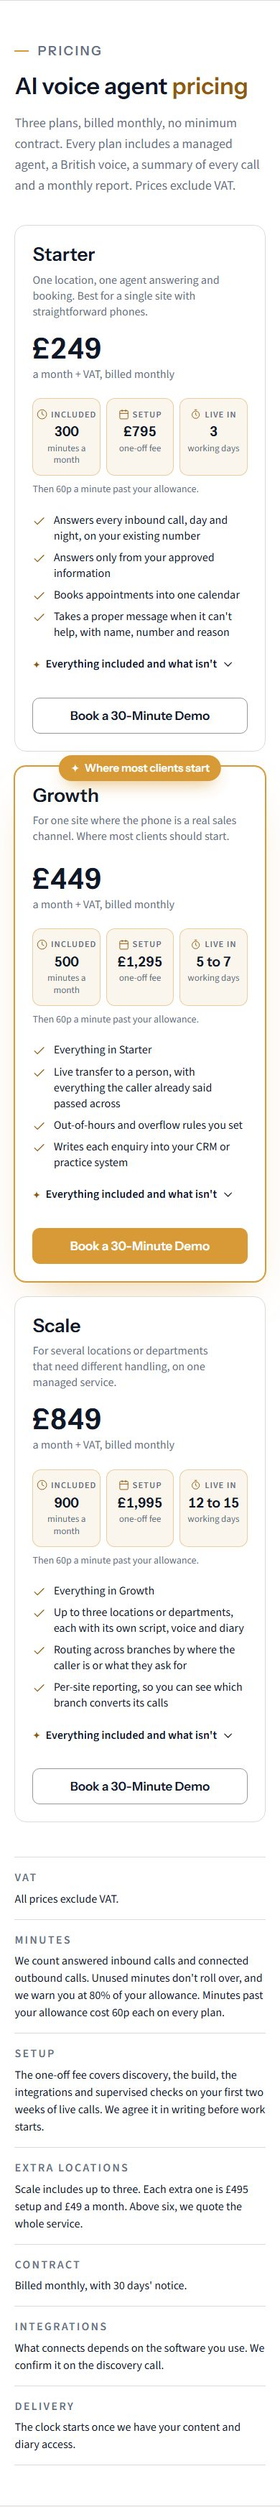
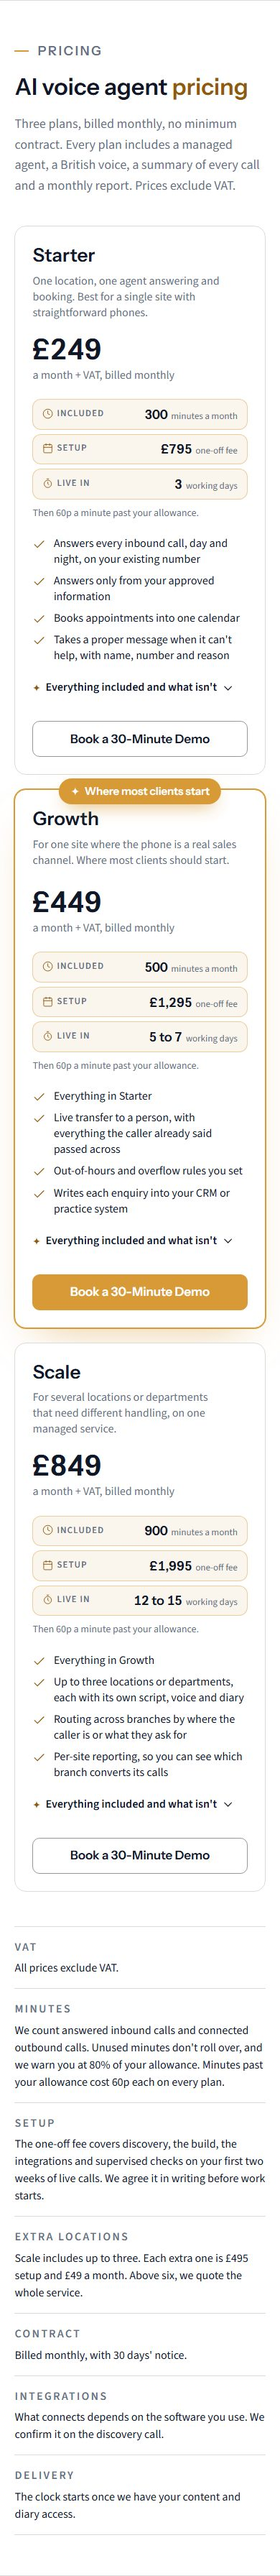
/ai-voice-agents: no hero flash, page-wide spotlight, guided fit check, varied entrances, responsive fixes
The hero is hidden from the first paint until the motion layer plays it in,
so a reload no longer shows it and then replays it. A cursor spotlight (soft
fill and lit edge) now runs on cards and panels across every section, pale
gold on dark bands. The fit check highlights the next question, fills a dot
per answer and keeps its 0 and 5 labels clear of the arc. Entrances vary by
group: word-by-word headings, drawn eyebrow dashes, blur-in intros, slides
from either side, scale-ups, popping timeline numbers and a drawn line.
Audited 320 to 1920px: fixed the "What is" column overflowing at 375 and
below, the sticky phone button at 320, cramped pricing facts in narrow cards
and a small tap target.

Changed region(s): [[0.0, 0.0312, 1.0, 1.0], [0.9231, 0.4999, 0.9538, 0.5311], [0.7385, 0.9372, 0.7692, 0.9685]]

diff --git a/lib/content/ai-voice-agents-legacy.ts b/lib/content/ai-voice-agents-legacy.ts
@@ -443,7 +443,7 @@ export const legacyMarkup = String.raw`
         <form class="hover-card mt-8 rounded-[18px] border border-line bg-paper p-5 sm:p-6" data-fit-form>
           <ol class="divide-y divide-line">
           <li>
-            <fieldset class="flex items-center justify-between gap-4 py-3">
+            <fieldset class="flex flex-col gap-2.5 py-3 sm:flex-row sm:items-center sm:justify-between sm:gap-4">
               <legend class="float-left pr-2 text-[16px] leading-snug"><span class="num mr-2 text-[14px]">01</span>Do you miss calls when your team is busy, on site or closed?</legend>
               <span class="flex shrink-0 gap-1.5">
                 <label class="relative"><input type="radio" name="fit-q0" value="yes" class="peer sr-only" data-fit-q="0" data-track="fit_check_answer" data-track-name="Q1 yes"><span class="flex min-h-[40px] min-w-[56px] items-center justify-center rounded-full border border-[var(--va-line-strong)] px-3 text-[15px] font-semibold peer-checked:border-ink peer-checked:bg-ink peer-checked:text-paper peer-focus-visible:outline-2 peer-focus-visible:outline-offset-2 peer-focus-visible:outline-[var(--va-hl)]">Yes</span></label>
@@ -452,7 +452,7 @@ export const legacyMarkup = String.raw`
             </fieldset>
           </li>
           <li>
-            <fieldset class="flex items-center justify-between gap-4 py-3">
+            <fieldset class="flex flex-col gap-2.5 py-3 sm:flex-row sm:items-center sm:justify-between sm:gap-4">
               <legend class="float-left pr-2 text-[16px] leading-snug"><span class="num mr-2 text-[14px]">02</span>Are most of your calls the same few requests?</legend>
               <span class="flex shrink-0 gap-1.5">
                 <label class="relative"><input type="radio" name="fit-q1" value="yes" class="peer sr-only" data-fit-q="1" data-track="fit_check_answer" data-track-name="Q2 yes"><span class="flex min-h-[40px] min-w-[56px] items-center justify-center rounded-full border border-[var(--va-line-strong)] px-3 text-[15px] font-semibold peer-checked:border-ink peer-checked:bg-ink peer-checked:text-paper peer-focus-visible:outline-2 peer-focus-visible:outline-offset-2 peer-focus-visible:outline-[var(--va-hl)]">Yes</span></label>
@@ -461,7 +461,7 @@ export const legacyMarkup = String.raw`
             </fieldset>
           </li>
           <li>
-            <fieldset class="flex items-center justify-between gap-4 py-3">
+            <fieldset class="flex flex-col gap-2.5 py-3 sm:flex-row sm:items-center sm:justify-between sm:gap-4">
               <legend class="float-left pr-2 text-[16px] leading-snug"><span class="num mr-2 text-[14px]">03</span>Could one missed call cost you a customer worth real money?</legend>
               <span class="flex shrink-0 gap-1.5">
                 <label class="relative"><input type="radio" name="fit-q2" value="yes" class="peer sr-only" data-fit-q="2" data-track="fit_check_answer" data-track-name="Q3 yes"><span class="flex min-h-[40px] min-w-[56px] items-center justify-center rounded-full border border-[var(--va-line-strong)] px-3 text-[15px] font-semibold peer-checked:border-ink peer-checked:bg-ink peer-checked:text-paper peer-focus-visible:outline-2 peer-focus-visible:outline-offset-2 peer-focus-visible:outline-[var(--va-hl)]">Yes</span></label>
@@ -470,7 +470,7 @@ export const legacyMarkup = String.raw`
             </fieldset>
           </li>
           <li>
-            <fieldset class="flex items-center justify-between gap-4 py-3">
+            <fieldset class="flex flex-col gap-2.5 py-3 sm:flex-row sm:items-center sm:justify-between sm:gap-4">
               <legend class="float-left pr-2 text-[16px] leading-snug"><span class="num mr-2 text-[14px]">04</span>Do you have a diary or system bookings can go into?</legend>
               <span class="flex shrink-0 gap-1.5">
                 <label class="relative"><input type="radio" name="fit-q3" value="yes" class="peer sr-only" data-fit-q="3" data-track="fit_check_answer" data-track-name="Q4 yes"><span class="flex min-h-[40px] min-w-[56px] items-center justify-center rounded-full border border-[var(--va-line-strong)] px-3 text-[15px] font-semibold peer-checked:border-ink peer-checked:bg-ink peer-checked:text-paper peer-focus-visible:outline-2 peer-focus-visible:outline-offset-2 peer-focus-visible:outline-[var(--va-hl)]">Yes</span></label>
@@ -479,7 +479,7 @@ export const legacyMarkup = String.raw`
             </fieldset>
           </li>
           <li>
-            <fieldset class="flex items-center justify-between gap-4 py-3">
+            <fieldset class="flex flex-col gap-2.5 py-3 sm:flex-row sm:items-center sm:justify-between sm:gap-4">
               <legend class="float-left pr-2 text-[16px] leading-snug"><span class="num mr-2 text-[14px]">05</span>Are you happy for callers to be told they are speaking to an AI?</legend>
               <span class="flex shrink-0 gap-1.5">
                 <label class="relative"><input type="radio" name="fit-q4" value="yes" class="peer sr-only" data-fit-q="4" data-track="fit_check_answer" data-track-name="Q5 yes"><span class="flex min-h-[40px] min-w-[56px] items-center justify-center rounded-full border border-[var(--va-line-strong)] px-3 text-[15px] font-semibold peer-checked:border-ink peer-checked:bg-ink peer-checked:text-paper peer-focus-visible:outline-2 peer-focus-visible:outline-offset-2 peer-focus-visible:outline-[var(--va-hl)]">Yes</span></label>
@@ -488,17 +488,18 @@ export const legacyMarkup = String.raw`
             </fieldset>
           </li>
           </ol>
-          <div class="mt-5 flex flex-wrap items-center gap-5 rounded-[14px] bg-sand p-5" aria-live="polite" data-fit-result data-state="empty">
-            <svg viewBox="0 0 200 122" class="shrink-0" role="img" aria-label="Fit gauge" data-fit-gauge>
+          <div class="mt-5 flex flex-col items-start gap-4 rounded-[14px] bg-sand p-5 sm:flex-row sm:items-center sm:gap-5" aria-live="polite" data-fit-result data-state="empty">
+            <svg viewBox="-6 0 212 136" class="shrink-0" role="img" aria-label="Fit gauge" data-fit-gauge>
               <path d="M20 100 A80 80 0 0 1 180 100" class="fit-track"/>
               <path d="M20 100 A80 80 0 0 1 180 100" class="fit-fill" style="stroke-dasharray:251.3;stroke-dashoffset:251.3" data-fit-arc data-arc="251.3"/>
               <g class="fit-needle" style="transform:rotate(-90deg)" data-fit-needle><line x1="100" y1="100" x2="100" y2="34"/><circle cx="100" cy="100" r="7"/></g>
-              <text x="20" y="116" class="fit-tick" text-anchor="middle">0</text>
-              <text x="180" y="116" class="fit-tick" text-anchor="middle">5</text>
+              <text x="20" y="132" class="fit-tick" text-anchor="middle">0</text>
+              <text x="180" y="132" class="fit-tick" text-anchor="middle">5</text>
             </svg>
             <div class="min-w-0 flex-1">
-              <p class="font-display text-[24px] font-semibold leading-tight" data-fit-title>Answer to see your fit</p>
-              <p class="mt-1.5 text-[16px] leading-snug text-muted" data-fit-text>Your result appears here as you go. Nothing is sent anywhere.</p>
+              <p class="font-display text-[24px] font-semibold leading-tight" data-fit-title>Start with question 1</p>
+              <p class="mt-1.5 text-[16px] leading-snug text-muted" data-fit-text>Tap Yes or No on each question. Your fit builds here as you answer.</p>
+              <div class="fit-dots mt-3" aria-hidden="true" data-fit-dots><i></i><i></i><i></i><i></i><i></i></div>
               <p class="mt-1.5 text-[15px] font-semibold text-muted tnum" data-fit-count>0 of 5 answered</p>
               <a href="#book-demo-form" class="btn btn-primary mt-3" data-fit-cta data-track="fit_check_book_demo" hidden>Book a 30-Minute Demo</a>
             </div>
@@ -570,8 +571,8 @@ ${cmpCols.slice(1).map((c, i) => `        <button type="button" role="radio" ari
 ${cmpRows.map(([k, omh, ...v]) => `        <div class="rounded-[14px] border border-line bg-surface p-4">
           <dt class="text-[16px] font-semibold">${k}</dt>
           <dd class="mt-3 grid grid-cols-2 gap-2 text-[15px] leading-snug">
-            <span class="cmp-omh rounded-[10px] p-3"><span class="block text-[12.5px] font-semibold uppercase tracking-[0.1em] text-hl">OMH</span><span class="mt-1 block font-semibold">${omh}</span></span>
-            ${v.map((t, i) => `<span class="rounded-[10px] bg-paper p-3" data-cmp-cell="${i + 1}"${i ? " hidden" : ""}><span class="block text-[12.5px] font-semibold uppercase tracking-[0.1em] text-muted">${cmpCols[i + 1]}</span><span class="mt-1 block text-muted">${t}</span></span>`).join("\n")}
+            <span class="cmp-omh rounded-[10px] p-3"><span class="block text-[13px] font-semibold uppercase tracking-[0.1em] text-hl">OMH</span><span class="mt-1 block font-semibold">${omh}</span></span>
+            ${v.map((t, i) => `<span class="rounded-[10px] bg-paper p-3" data-cmp-cell="${i + 1}"${i ? " hidden" : ""}><span class="block text-[13px] font-semibold uppercase tracking-[0.1em] text-muted">${cmpCols[i + 1]}</span><span class="mt-1 block text-muted">${t}</span></span>`).join("\n")}
           </dd>
         </div>`).join("\n")}
       </dl>
@@ -633,7 +634,7 @@ ${voiceFaqs.map(faqItem).join("\n")}
 <div data-component="MobileStickyBar" data-sticky-bar class="fixed inset-x-0 bottom-0 z-40 border-t border-line bg-paper px-4 pb-[max(.75rem,env(safe-area-inset-bottom))] pt-3 shadow-[0_-12px_30px_-18px_rgb(16_24_40/0.35)] md:hidden" inert>
   <div class="flex items-center gap-3">
     <a href="#book-demo-form" class="btn btn-primary flex-1 whitespace-nowrap !px-3" data-track="sticky_book_demo">Book a Demo</a>
-    <a href="tel:+442034893934" class="btn btn-secondary shrink-0 whitespace-nowrap !px-3 tnum" data-track="sticky_phone_click">Call 020 3489 3934</a>
+    <a href="tel:+442034893934" class="btn btn-secondary shrink-0 whitespace-nowrap !px-3 tnum" data-track="sticky_phone_click" aria-label="Call 020 3489 3934"><span class="max-[374px]:hidden">Call&nbsp;</span>020 3489 3934</a>
   </div>
 </div>
 `;

diff --git a/app/ai-voice-agents/voice-agents.css b/app/ai-voice-agents/voice-agents.css
@@ -475,7 +475,7 @@ html:has(.va-page dialog[open]) {
   .day-miss { display: inline-flex; align-items: center; gap: .4rem; padding: .35rem .7rem; border-radius: 8px; background: color-mix(in srgb, var(--va-miss) 12%, var(--va-surface)); color: var(--va-miss); font-size: 14px; font-weight: 600; }
   .day-ok { display: inline-flex; align-items: center; gap: .4rem; padding: .35rem .7rem; border-radius: 8px; background: color-mix(in srgb, var(--va-ok) 12%, var(--va-surface)); color: var(--va-ok); font-size: 14px; font-weight: 600; }
   @media (prefers-reduced-motion: reduce) {
-    [data-brand] :is([data-brand-line], [data-brand-outcome]) { display: block !important; animation: none; }
+    [data-brand] :is([data-brand-line], [data-brand-outcome]) { animation: none; }
   }
 }
 
@@ -573,9 +573,6 @@ html:has(.va-page dialog[open]) {
 #va-page .m-instant, #va-page .m-instant .mw > span { transition: none !important; }
 .m-progress { position: fixed; inset: 0 0 auto; z-index: 60; height: 3px; background: linear-gradient(90deg, #d79a37, #f2c675); transform-origin: 0 50%; transform: scaleX(0); pointer-events: none; }
 #va-page .hero-video .video-frame { transform-origin: 50% 0; will-change: transform; transition: border-radius .2s ease; }
-#va-page :is(.hover-card, [data-industry], #pricing article, .city, #feedback figure, .tl-card, #features ol > li, [data-tab-panel]):hover {
-  background-image: radial-gradient(420px circle at var(--mx, 50%) var(--my, 50%), rgb(215 154 55 / .12), transparent 45%);
-}
 @media (prefers-reduced-motion: reduce) { .m-progress { display: none; } }
 
 /* Fit gauge and result, larger (20 Oct 2026). */
@@ -689,3 +686,77 @@ html:has(.va-page dialog[open]) {
   .v4l .lf .lf-txt b { font-size: 15.5px; }
   .v4l .lf .lf-txt small { font-size: 13px; }
 }
+
+/* ================= Round six (20 Oct 2026) ================= */
+
+/* 1. Hero: hidden from the first paint while the script is on its way, so a reload no longer shows it and then
+   replays it. Lets go when the motion layer starts (motion-ready), when it decides not to run (motion-skip),
+   and after 2.5s regardless. */
+@media (prefers-reduced-motion: no-preference) {
+  html[data-js]:not(.motion-ready):not(.motion-skip) #va-page #top :is(.badge, h1, .lead, #hero-form, #hero-form + p, #industries-strip, .hero-video) {
+    opacity: 0; animation: va-failsafe 0s linear 2.5s forwards;
+  }
+}
+@keyframes va-failsafe { to { opacity: 1; } }
+
+/* 2. Cursor spotlight: a soft fill and a lit edge that follow the pointer, gold on light cards, pale gold on dark. */
+#va-page .m-glow, #book-demo-form .m-glow { position: relative; isolation: isolate; --glow-fill: rgb(215 154 55 / .13); --glow-edge: rgb(215 154 55 / .9); }
+#va-page .m-glow-dark, #book-demo-form .m-glow-dark { --glow-fill: rgb(242 198 117 / .11); --glow-edge: rgb(242 198 117 / .75); }
+:is(#va-page, #book-demo-form) .m-glow::before, :is(#va-page, #book-demo-form) .m-glow::after {
+  content: ""; position: absolute; inset: 0; z-index: -1; border-radius: inherit; pointer-events: none; opacity: 0; transition: opacity .4s ease;
+}
+:is(#va-page, #book-demo-form) .m-glow::after { background: radial-gradient(480px circle at var(--mx, 50%) var(--my, 50%), var(--glow-fill), transparent 45%); }
+:is(#va-page, #book-demo-form) .m-glow::before {
+  z-index: 1; padding: 1px;
+  background: radial-gradient(260px circle at var(--mx, 50%) var(--my, 50%), var(--glow-edge), transparent 60%);
+  -webkit-mask: linear-gradient(#000 0 0) content-box, linear-gradient(#000 0 0); -webkit-mask-composite: xor;
+  mask: linear-gradient(#000 0 0) content-box, linear-gradient(#000 0 0); mask-composite: exclude;
+}
+:is(#va-page, #book-demo-form) .m-glow:hover::before, :is(#va-page, #book-demo-form) .m-glow:hover::after { opacity: 1; }
+
+/* 4. Entrance variants. Hidden states apply only under html.motion-ready; .m-done drops the entrance timing. */
+.motion-ready #va-page :is(.m-up, .m-left, .m-right, .m-slide, .m-scale, .m-blur, .m-pop, .m-eyebrow) {
+  transition: opacity .8s cubic-bezier(.16, 1, .3, 1) var(--d, 0ms), transform 1s cubic-bezier(.16, 1, .3, 1) var(--d, 0ms), filter .9s cubic-bezier(.16, 1, .3, 1) var(--d, 0ms);
+}
+.motion-ready #va-page .m-left:not(.is-in) { opacity: 0; transform: translateX(-44px); }
+.motion-ready #va-page .m-right:not(.is-in) { opacity: 0; transform: translateX(44px); }
+.motion-ready #va-page .m-slide:not(.is-in) { opacity: 0; transform: translateX(90px); }
+.motion-ready #va-page .m-scale:not(.is-in) { opacity: 0; transform: translateY(34px) scale(.94); }
+.motion-ready #va-page #plan-growth.m-scale:not(.is-in) { transform: translateY(70px) scale(.92); }
+.motion-ready #va-page .m-blur:not(.is-in) { opacity: 0; filter: blur(10px); transform: translateY(10px); }
+.motion-ready #va-page .m-pop:not(.is-in) { opacity: 0; transform: scale(.4); }
+.motion-ready #va-page .m-pop { transition-timing-function: cubic-bezier(.34, 1.56, .64, 1); }
+.motion-ready #va-page .m-eyebrow:not(.is-in) { opacity: 0; transform: translateX(-16px); }
+.motion-ready #va-page .m-eyebrow :is(.eyebrow-mark, .voice-mark) { transform-origin: 0 50%; transition: transform .8s cubic-bezier(.16, 1, .3, 1) calc(var(--d, 0ms) + 150ms); }
+.motion-ready #va-page .m-eyebrow:not(.is-in) :is(.eyebrow-mark, .voice-mark) { transform: scaleX(0); }
+.motion-ready #va-page .tl::before { transform-origin: 0 50%; transition: transform 1.4s cubic-bezier(.16, 1, .3, 1) .2s; }
+.motion-ready #va-page .tl:not(.is-in)::before { transform: scaleX(0); }
+.motion-ready #va-page .m-done { transition: transform .3s ease, box-shadow .3s ease, border-color .3s ease, background-color .3s ease, opacity .3s ease, filter .3s ease !important; }
+
+/* 3. Fit check, guided: the next question lights up and its buttons breathe; a dot fills per answer. */
+#va-page [data-fit-form] ol > li { margin-inline: -.75rem; padding-inline: .75rem; border-radius: 12px; transition: background-color .3s ease, box-shadow .3s ease; }
+#va-page [data-fit-form] ol > li.is-next { background: color-mix(in srgb, #d79a37 10%, transparent); box-shadow: inset 3px 0 0 #d79a37; }
+#va-page [data-fit-form] li.is-next label > span { border-color: #d79a37; }
+@media (prefers-reduced-motion: no-preference) {
+  #va-page [data-fit-form] li.is-next label > span { animation: va-fit-breathe 2s ease-in-out infinite; }
+  #va-page [data-fit-form] li.is-next label + label > span { animation-delay: .25s; }
+}
+@keyframes va-fit-breathe { 0%, 100% { box-shadow: 0 0 0 0 rgb(215 154 55 / .45); } 50% { box-shadow: 0 0 0 6px rgb(215 154 55 / 0); } }
+#va-page .fit-dots { display: flex; gap: 6px; }
+#va-page .fit-dots i { display: block; width: 26px; height: 6px; border-radius: 999px; background: var(--va-line-strong); opacity: .35; transition: background-color .3s ease, opacity .3s ease, transform .3s ease; }
+#va-page .fit-dots i.is-yes { background: #d79a37; opacity: 1; transform: scaleY(1.3); }
+#va-page .fit-dots i.is-no { background: var(--va-ink); opacity: .55; }
+#va-page .fit-tick { font-size: 19px; font-weight: 600; fill: var(--va-muted); }
+#va-page [data-fit-gauge] { width: 176px; }
+
+/* 5. Responsive. */
+#va-page #pricing article { container-type: inline-size; }
+@container (max-width: 380px) {
+  #va-page .plan-facts { grid-template-columns: 1fr; gap: 6px; }
+  #va-page .plan-facts > div { display: flex; align-items: baseline; justify-content: space-between; gap: .75rem; padding: .55rem .8rem; text-align: left; }
+  #va-page .plan-facts dt { justify-content: flex-start; }
+  #va-page .plan-facts dd { margin-top: 0; font-size: 18px; text-align: right; white-space: nowrap; }
+  #va-page .plan-facts dd span { display: inline; margin: 0 0 0 .3rem; }
+}
+#va-page .plan-facts dt { font-size: 13px; }
+#va-page #cities .link-tap { display: inline-flex; min-height: 44px; align-items: center; }

diff --git a/components/voice-agents/VoiceMotion.tsx b/components/voice-agents/VoiceMotion.tsx
@@ -13,21 +13,27 @@ import { useEffect } from "react";
   stalled observer can never leave a section blank. Reduced motion turns all of it off.
 */
 
+// Each kind has its own entrance (voice-agents.css): rise, slide in from either side, scale up, sharpen from a
+// blur, pop, or unclip. Kept to one kind per group so a section reads as one gesture, not a medley.
 const REVEAL = [
-  // [selector, kind]
-  ["section .eyebrow", "up"],
-  ["section > .container-omh > p.text-muted, section > .container-omh > p.text-band-muted, section .head-c > p, #what-is p.text-band-muted, #right-fit p.text-muted", "up"],
-  ["[data-industry], #feedback figure, #pricing article, .tl-step, .cap-tab, [data-faq-item], [data-brand-step], #right-fit .hover-card, #features ol > li, .city, #compare .cmp-table, #compare [data-cmp] dl > div, #faq .rounded-\\[16px\\]", "up"],
-  [".brand-phone, #use-cases [data-tab-panel]:not([hidden]), [data-fit-form]", "clip"],
-  ["#feedback dl, .ucard-vis", "up"],
+  ["section .eyebrow", "eyebrow"],
+  ["section > .container-omh > p.text-muted, section > .container-omh > p.text-band-muted, section .head-c > p, #what-is p.text-band-muted, #right-fit p.text-muted, #features > .container-omh > p", "blur"],
+  ["[data-industry], #features ol > li, .tl-card", "up"],
+  [".cap-tab, [data-brand-step], [data-fit-form]", "left"],
+  ["#right-fit .hover-card, [data-faq-item], #faq .rounded-\\[16px\\]", "right"],
+  ["#feedback figure, .city", "slide"],
+  ["#pricing article, #compare .cmp-table, #compare [data-cmp] dl > div, #feedback dl, .kstats > div", "scale"],
+  [".tl-num", "pop"],
+  [".brand-phone, #use-cases [data-tab-panel]:not([hidden]), .flow-panel, #industries aside", "clip"],
 ] as const;
 
 export function VoiceMotion() {
   useEffect(() => {
     const root = document.getElementById("va-page");
     if (!root) return;
-    if (window.matchMedia("(prefers-reduced-motion: reduce)").matches) return;
-    if (document.visibilityState !== "visible" || !("IntersectionObserver" in window)) return;
+    const skip = () => document.documentElement.classList.add("motion-skip");
+    if (window.matchMedia("(prefers-reduced-motion: reduce)").matches) return skip();
+    if (document.visibilityState !== "visible" || !("IntersectionObserver" in window)) return skip();
 
     const undo: (() => void)[] = [];
     const on = (t: EventTarget, type: string, fn: EventListener, opts?: AddEventListenerOptions) => {
@@ -78,7 +84,7 @@ export function VoiceMotion() {
       root.querySelectorAll<HTMLElement>(sel).forEach((el) => {
         if (tagged.has(el)) return;
         tagged.add(el);
-        el.classList.add(kind === "clip" ? "m-clip" : "m-up");
+        el.classList.add("m-" + kind);
       }),
     );
     // Siblings that enter together get a small delay each, so a row of cards ripples in.
@@ -88,7 +94,14 @@ export function VoiceMotion() {
       el.style.setProperty("--d", `${Math.min(sibs.indexOf(el), 5) * 90}ms`);
     });
 
-    const show = (el: Element) => el.classList.add("is-in");
+    // Once an element has arrived, drop the entrance timing so hover effects respond at their own speed.
+    const show = (el: Element) => {
+      el.classList.add("is-in");
+      const d = parseFloat((el as HTMLElement).style.getPropertyValue("--d")) || 0;
+      window.setTimeout(() => el.classList.add("m-done"), d + 1300);
+      const tl = el.closest(".tl");
+      if (tl) tl.classList.add("is-in");
+    };
     const io = new IntersectionObserver(
       (entries) =>
         entries.forEach((e) => {
@@ -139,7 +152,7 @@ export function VoiceMotion() {
       clearTimeout(failsafe);
       document.documentElement.classList.remove("motion-ready");
       tagged.forEach((el) => {
-        el.classList.remove("m-up", "m-clip", "is-in", "m-instant");
+        el.classList.remove(...REVEAL.map(([, k]) => "m-" + k), "is-in", "m-instant", "m-done");
         el.style.removeProperty("--d");
       });
     });
@@ -238,9 +251,19 @@ export function VoiceMotion() {
         on(b, "pointerleave", leave);
         undo.push(leave);
       });
-      const glowSel = ".hover-card, [data-industry], #pricing article, .city, #feedback figure, .tl-card, #features ol > li, [data-tab-panel]";
-      on(root, "pointermove", (e) => {
-        const card = (e.target as Element).closest<HTMLElement>(glowSel);
+      const glowSel = [
+        ".hover-card", "[data-industry]", "#industries aside", "#pricing article", ".city", "#feedback figure", ".tl-card", ".lf-node",
+        "#features ol > li", "[data-tab-panel]", ".cap-tab", "[data-brand-step]", "#use-cases .bg-sand", "[data-faq-item]",
+        "#faq .rounded-\\[16px\\]", "#compare [data-cmp] dl > div", "#compare .lg\\:block", "#what-is .bg-band-surface",
+      ].map((s) => "#va-page " + s).concat("#book-demo-form [role=tab]").join(", ");
+      const glowing = Array.from(document.querySelectorAll<HTMLElement>(glowSel));
+      glowing.forEach((el) => {
+        el.classList.add("m-glow");
+        if (el.closest(".on-band, #book-demo-form, .flow-panel")) el.classList.add("m-glow-dark");
+      });
+      undo.push(() => glowing.forEach((el) => el.classList.remove("m-glow", "m-glow-dark")));
+      on(document, "pointermove", (e) => {
+        const card = (e.target as Element).closest<HTMLElement>(".m-glow");
         if (!card) return;
         const r = card.getBoundingClientRect();
         card.style.setProperty("--mx", `${(e as PointerEvent).clientX - r.left}px`);

diff --git a/lib/content/ai-voice-agents-markup.ts b/lib/content/ai-voice-agents-markup.ts
@@ -249,7 +249,7 @@ export const voiceAgentsMarkup = String.raw`
 
 <section id="what-is" data-component="WhatIs" class="on-band relative overflow-hidden bg-band text-band-ink">
   <div class="pointer-events-none absolute right-[-10%] top-1/2 h-[620px] w-[620px] -translate-y-1/2 rounded-full bg-gold/15 blur-3xl" aria-hidden="true"></div>
-  <div class="container-omh relative grid items-start gap-10 py-16 lg:grid-cols-[minmax(0,1.05fr)_minmax(0,.95fr)] lg:grid-rows-[auto_1fr] lg:gap-x-16 lg:gap-y-10 lg:py-24" data-brand
+  <div class="container-omh relative grid grid-cols-[minmax(0,1fr)] items-start gap-10 py-16 lg:grid-cols-[minmax(0,1.05fr)_minmax(0,.95fr)] lg:grid-rows-[auto_1fr] lg:gap-x-16 lg:gap-y-10 lg:py-24" data-brand
     data-brand-biz='[{"id":"law","label":"Law firm","name":"Hartwell Reeve Solicitors","city":"Birmingham","num":"0121 496 0147","agent":"Grace","kind":"firm&#39;s","initials":"HR","voice":"British English, calm and measured","never":"Gives legal advice","transfer":"Existing clients go to their named solicitor","caller":"I need advice about a tenancy dispute.","reply":"I can book you a consultation with our property team on Monday at 11.","booked":"Consultation booked: Mon 11:00","summary":"Summary sent to the property team: new enquiry, tenancy dispute"},{"id":"dental","label":"Dental clinic","name":"Albion Square Dental","city":"Manchester","num":"0161 496 0123","agent":"Amy","kind":"practice&#39;s","initials":"AS","voice":"British English, warm and friendly","never":"Gives clinical advice","transfer":"Dental emergencies go to the on-call line","caller":"I&#39;ve cracked a tooth. Can I be seen today?","reply":"Sorry to hear that. I have an emergency slot at 9:15 this morning.","booked":"Emergency slot booked: 09:15","summary":"Summary emailed to reception: emergency appointment, 9:15"},{"id":"plumber","label":"Plumber","name":"Severn Plumbing","city":"Bristol","num":"0117 496 0135","agent":"Sam","kind":"team&#39;s","initials":"SP","voice":"British English, relaxed","never":"Quotes a price it has not been given","transfer":"Burst pipes go straight to the plumber on call","caller":"There&#39;s water coming through my kitchen ceiling.","reply":"Turn off the stopcock under the sink. Sam can be with you in 40 minutes.","booked":"Engineer dispatched: ETA 40 min","summary":"Summary texted to Sam: address, fault and access details"}]'>
     <div class="lg:col-start-1 lg:row-start-1">
       <h2>What is an <span class="hl">AI voice agent?</span></h2>

diff --git a/components/voice-agents/VoiceAgentsScript.tsx b/components/voice-agents/VoiceAgentsScript.tsx
@@ -872,7 +872,7 @@ function init(page: HTMLElement, navigate: (href: string) => void) {
     const total = 5,
       len = Number(arc.dataset.arc);
     const copy: Record<string, [string, string]> = {
-      empty: ["Answer to see your fit", "Your result appears here as you go. Nothing is sent anywhere."],
+      empty: ["Start with question 1", "Tap Yes or No on each question. Your fit builds here as you answer."],
       strong: ["Strong fit", "A voice agent is likely to earn its keep. Book a demo and hear one set up for your calls."],
       maybe: ["Worth a chat", "Some of your calls could suit an agent. A 30-minute call will tell us which ones."],
       low: ["Probably not yet", "On these answers an agent may not pay for itself. We would rather tell you that now."],
@@ -901,6 +901,17 @@ function init(page: HTMLElement, navigate: (href: string) => void) {
       $("[data-fit-text]", result).textContent = copy[state][1];
       $("[data-fit-count]", result).textContent = answered + " of " + total + " answered";
       $("[data-fit-cta]", result).hidden = !(state === "strong" || state === "maybe") || answered < total;
+      // Guide the visitor: light up the next unanswered question and fill a dot per answer.
+      const rows = Array.from(form.querySelectorAll<HTMLElement>("ol > li"));
+      const dots = $$("[data-fit-dots] i", result);
+      let nextSet = false;
+      for (let i = 0; i < total; i++) {
+        const picked = form.querySelector<HTMLInputElement>('input[data-fit-q="' + i + '"]:checked');
+        if (dots[i]) dots[i].className = picked ? (picked.value === "yes" ? "is-yes" : "is-no") : "";
+        const isNext = !picked && !nextSet && !aiNo;
+        if (isNext) nextSet = true;
+        rows[i]?.classList.toggle("is-next", isNext);
+      }
       const share = yes / total;
       arc.style.strokeDashoffset = String(len * (1 - share));
       needle.style.transform = "rotate(" + (-90 + share * 180) + "deg)";

diff --git a/docs/ai-voice-agents-cro/ai-voice-agents-qa-report.md b/docs/ai-voice-agents-cro/ai-voice-agents-qa-report.md
@@ -275,3 +275,21 @@ transitioned in, so elements on screen never visibly started hidden; hidden stat
 transitions off (`html.m-setup`) and the animation runs after a paint. Probed in headless Chrome:
 at +137ms the hero parts read opacity 0, at +600ms the badge is in and the first word is rising, at
 +1.7s everything is at 1.
+Round six:
+- Hero flash on reload fixed: the hero is hidden from the first paint (CSS keyed to the `data-js`
+  flag the layout sets before paint) until the motion layer takes over, or tells the page to skip
+  (reduced motion, background tab), or 2.5s pass. Probed from the earliest frames: opacity 0 until
+  the script runs, then a single play-in.
+- Cursor spotlight on 97 cards and panels across every section and the booking band: a soft fill and
+  a lit edge that follow the pointer, pale gold on the dark bands.
+- Fit check is guided: the next unanswered question is highlighted with gently pulsing buttons, a dot
+  fills per answer (gold for yes), the empty state says "Start with question 1", the 0 and 5 labels
+  sit clear of the arc, and on phones the questions and the result stack.
+- Entrance variety: headings rise word by word, eyebrows draw their dash, intro paragraphs sharpen
+  from a blur, step lists slide from the left, side panels and FAQs from the right, carousel cards
+  slide in, pricing and comparison scale up (the recommended plan from further), timeline numbers
+  pop and its dashed line draws, dark panels unclip.
+- Responsive audit at 320, 360, 375, 390, 414, 768, 834, 1024, 1280, 1440 and 1920: no page
+  overflow and no element past the edge at any width (fixed: the "What is" column at 375 and below,
+  the sticky bar's phone button at 320), no real text under 13px, no tap target under 40px (fixed:
+  "Ask us about your area"). Pricing facts switch to rows when a card is narrower than 380px.
